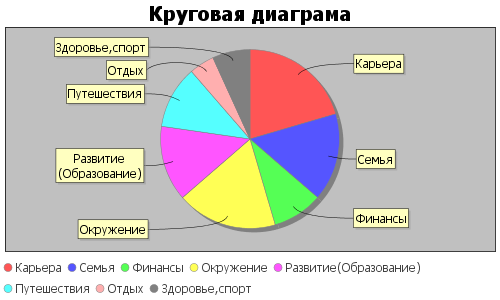
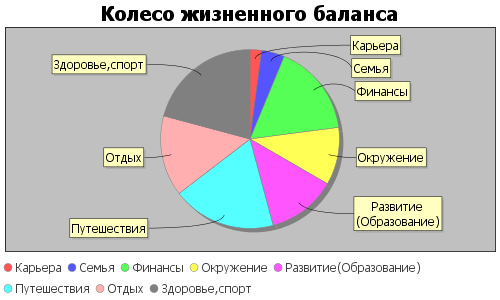
first launch

Changed region(s): [[0.09, 0.0, 0.9, 0.81]]

diff --git a/src/main/java/ImageCreate.java b/src/main/java/ImageCreate.java
@@ -34,8 +34,8 @@ public class ImageCreate extends JFrame {
         pack();
         setTitle("Колесо");
         setLocationRelativeTo(null);
-        setDefaultCloseOperation(JFrame.EXIT_ON_CLOSE);
-        setVisible(true);
+        //setDefaultCloseOperation(JFrame.EXIT_ON_CLOSE);
+        //setVisible(true);
 
     }
 
@@ -50,7 +50,7 @@ public class ImageCreate extends JFrame {
         defaultPieDataset.setValue(arrText[5],arrWheel[5]);
         defaultPieDataset.setValue(arrText[6],arrWheel[6]);
         defaultPieDataset.setValue(arrText[7],arrWheel[7]);
-        chart = ChartFactory.createPieChart("Круговая диаграма",defaultPieDataset,true,true,false);
+        chart = ChartFactory.createPieChart("Колесо жизненного баланса",defaultPieDataset,true,true,false);
 
 
         File imageChart = new File( "LifeBalance.png");
@@ -59,7 +59,7 @@ public class ImageCreate extends JFrame {
         try {
             ChartUtils.saveChartAsPNG(imageChart,chart,500,300);
         }catch (Exception e){
-            System.out.println("Problem");
+            System.out.println("Some problem`s");
         }
 
     }

diff --git a/src/main/java/Bot.java b/src/main/java/Bot.java
@@ -128,7 +128,7 @@ public class Bot extends TelegramLongPollingBot {
 
                 }else{
                     sendMsg(user.chatId, Icon.CHECK.get() + arrAnswer[4] + str1 + arrAnswer[5] + arrText[numberForStrongSide] + arrAnswer[6] + arrText[numberForWeakSide]);
-                    SendPhoto msg = new SendPhoto().setChatId(user.chatId).setPhoto( new File("path\to\file.png"));
+                    SendPhoto msg = new SendPhoto().setChatId(user.chatId).setPhoto( new File("LifeBalance.png"));
                     try {
                         execute(msg);
                     }catch (TelegramApiException e){
